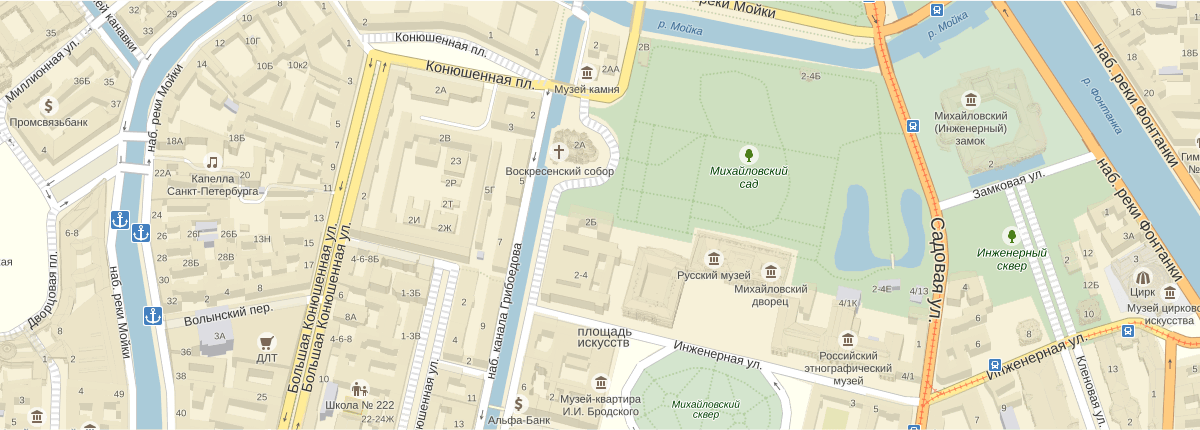
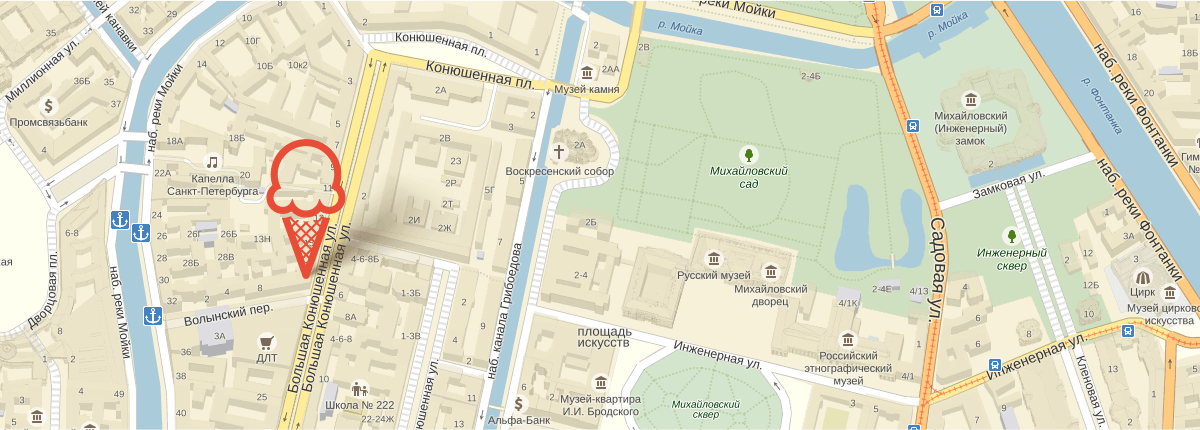
завершена верстка блоко преимуществ и карты

diff --git a/css/style.css b/css/style.css
@@ -295,7 +295,14 @@ input[type="radio"].visually-hidden {
 }
 
 .miscellanea-item {
-  background-color: rgba(255, 255, 255, 0.8);
+  background-color: transparent;
+}
+
+.miscellanea-item-left h3 {
+  display: inline-block;
+  margin: 0;
+  padding: 0;
+  width: 300px;
 }
 
 .miscellanea-item-left a {
@@ -304,17 +311,20 @@ input[type="radio"].visually-hidden {
   font-weight: 700;
   text-align: left;
   color: rgb(50, 50, 50);
-  background-color: rgba(255, 255, 255, 0.8);
+  background-color: transparent;
   border-bottom: 2px solid #353535;
 }
 
 .miscellanea-item-left p {
+  margin: 0; 
+  margin-bottom: 4px; 
+  padding: 0;
   font-size: 16px;
   line-height: 22px;
   font-weight: 500;
   text-align: left;
   color: rgb(50, 50, 50);
-  background-color: rgba(255, 255, 255, 0.8);
+  background-color: transparent;
 }
 
 .miscellanea-item-right p {
@@ -353,8 +363,21 @@ input[type="radio"].visually-hidden {
   border-radius: 40px;
 }
 
-.contacts-address,
+.contacts-address {
+  margin: 0;
+  margin-bottom: 17px;  
+  padding: 0;
+  font-size: 14px;
+  line-height: 20px;
+  font-weight: 400;
+  color: #323232;
+  background-color: rgba(255, 255, 255, 0.98);
+}
+
 .contacts-phones {
+  margin: 0;
+  margin-bottom: 25px;
+  padding: 0;
   font-size: 14px;
   line-height: 20px;
   font-weight: 400;
@@ -363,6 +386,10 @@ input[type="radio"].visually-hidden {
 }
 
 .contacts-address b {
+  display: inline-block;
+  margin: 0;
+  margin-top: 2px;
+  padding: 0;
   font-size: 18px;
   line-height: 24px;
   font-weight: 700;
@@ -371,6 +398,11 @@ input[type="radio"].visually-hidden {
 }
 
 .contacts-phones b {
+  display: inline-block;
+  margin: 0;
+  margin-top: 6px;
+  margin-bottom: 1px;
+  padding: 0;
   font-size: 18px;
   line-height: 22px;
   font-weight: 700;
@@ -387,7 +419,8 @@ input[type="radio"].visually-hidden {
 }
 
 .contacts-button {
-  padding: 13px 22px;
+  margin: 0;  
+  padding: 10px 27px;
   font-size: 18px;
   line-height: 24px;
   border-radius: 40px;
@@ -677,8 +710,6 @@ body {
   padding-top: 272px;
   text-align: center;
   color: #ffffff;
-  /*удалить*/
-  outline: 10px solid rgba(255, 0, 0, 0.1);
 }
 
 .slider-list {
@@ -706,6 +737,8 @@ body {
   left: 27px;
   z-index: 20;
   font-size: 0;
+  /*удалить*/
+  outline: 10px solid rgba(255, 0, 0, 1);    
 }
 
 .slider-controls label {
@@ -950,12 +983,8 @@ body {
 
 .features {
   margin: 0;
-  margin-bottom: 31px;
+  margin-bottom: 32px;
   padding: 0 27px;
-  /*временно*/
-  /*min-height: 306px;*/
-  background: transparent;
-  outline: 10px solid rgba(255, 0, 0, 1);
 }
 
 .features-wrapper {
@@ -965,9 +994,6 @@ body {
   padding: 25px 20px;
   background: url("../img/waffer.png") repeat #efe2ca;
   border-radius: 15px;
-/*  padding-bottom: 23px;*/
-  /* --- временно для сетки --- */
-  background-color1: transparent;
 }
 
 .features-wrapper p {
@@ -991,9 +1017,58 @@ body {
 }
 
 .features-item {
+  position: relative;
   margin: 0;
   padding: 14px 5px 7px 56px;
   width: 540px;
+}
+
+.features-item-first::before {
+  content: "";
+  position: absolute;
+  top: 0;
+  left: 0;
+  width: 204px;
+  height: 204px;
+  background-color: transparent;
+  background-image: url("../img/ice-cream.svg");
+  background-repeat: no-repeat;
+}
+
+.features-item-second::before {
+  content: "";
+  position: absolute;
+  top: 0;
+  left: 0;
+  width: 204px;
+  height: 204px;
+  background-color: transparent;
+  background-image: url("../img/eco.svg");
+  background-repeat: no-repeat;
+}
+
+.features-item-third::before {
+  content: "";
+  position: absolute;
+  top: 0;
+  left: 0;
+  width: 204px;
+  height: 204px;
+  background-color: transparent;
+  background-image: url("../img/cow.svg");
+  background-repeat: no-repeat;
+}
+
+.features-item-forth::before {
+  content: "";
+  position: absolute;
+  top: 0;
+  left: 0;
+  width: 204px;
+  height: 204px;
+  background-color: transparent;
+  background-image: url("../img/thermometer.svg");
+  background-repeat: no-repeat;
 }
 
 .miscellanea {
@@ -1002,8 +1077,6 @@ body {
   padding: 0 27px;
   /*временно*/
   min-height: 220px;
-  background: transparent;
-  outline: 10px solid rgba(255, 0, 0, 1);
 }
 
 .miscellanea-list {
@@ -1012,6 +1085,7 @@ body {
   justify-content: space-between;
   margin: 0;
   padding: 0;
+  min-height: 220px;  
   /* --- временно для сетки --- */
   background: transparent;
 }
@@ -1020,18 +1094,30 @@ body {
   margin: 0;
   padding: 0;
   width: 560px;
-  height: 220px;
+  min-height: 220px;
   border-radius: 15px;
-  /*временно*/
-  /*background: transparent;*/
-  /*outline: 10px solid rgba(255, 0, 0, 0.1);*/
 }
 
 .miscellanea-item-left {
+  display: flex;
+  flex-direction: column-reverse;
+  justify-content: flex-end;
+  margin: 0;
+  padding: 23px 19px;
+  min-height: 220px;
   background-color: #ffffff;
   background-image: url("../img/news-1.jpg");
-  background-position: right center;
+  background-position: 116% 20%;
   background-repeat: no-repeat;
+}
+.miscellanea-item-right {
+  margin: 0;
+  padding: 0;
+  min-height: 220px;
+  background-color: #ffffff;
+  /*временно*/
+  background-color: transparent;
+  outline: 10px solid rgba(255, 0, 0, 1);
 }
 
 .contacts {
@@ -1039,9 +1125,6 @@ body {
   padding: 0;
   width: 1200px;
   height: 430px;
-  /*временно*/
-  background: transparent;
-  outline: 10px solid rgba(255, 0, 0, 1);
 }
 
 .contacts-wrapper {
@@ -1050,8 +1133,6 @@ body {
   flex-direction: row;
   margin: 0;
   padding: 0;
-  /* --- временно для сетки --- */
-  background: transparent;
 }
 
 .contacts-map {
@@ -1061,15 +1142,15 @@ body {
   height: 430px;
 }
 
-.contacts-wrapper .container {
+.contacts-info {
   position: absolute;
   bottom: 62px;
   right: 27px;
   margin: 0;
-  padding: 0;
+  padding: 33px 25px 0px 25px;
   width: 302px;
-  min-height: 305px;
-  background-color: rgba(255, 255, 255, 0.98);
+  min-height: 310px;
+  background-color: rgba(255, 255, 255, 0.98);  
   border-radius: 15px;
 }
 

diff --git a/grid1.html b/grid1.html
@@ -65,8 +65,8 @@
               </p>
               <ul class="features-list">
                 <li class="features-item features-item-first">Все наше мороженое изготавливается на собственном производстве, с использованием современного оборудования и проверенных временем технологий.</li>
-                <li class="features-item features-item-third">Закупка ингредиентов  производится только у проверенных фермерских хозяйств и компаний, с которыми нас связывает долговременное сотрудничество.</li>
-                <li class="features-item features-item-second">Для приготовления мороженого используются настоящие сливки и молоко высочайшего качества. Все дополнительные ингредиенты и добавки произведены из натурального, экологически чистого сырья.</li>
+                <li class="features-item features-item-second">Закупка ингредиентов  производится только у проверенных фермерских хозяйств и компаний, с которыми нас связывает долговременное сотрудничество.</li>
+                <li class="features-item features-item-third">Для приготовления мороженого используются настоящие сливки и молоко высочайшего качества. Все дополнительные ингредиенты и добавки произведены из натурального, экологически чистого сырья.</li>
                 <li class="features-item features-item-forth">Доставка нашего мороженого до заказчиков осуществляется в специальном термопаке, который не дает мороженому растаять в пути и позволяет сохранить превосходный вкус.</li>
               </ul>
             </div>
@@ -97,13 +97,13 @@
             <h2 class="visually-hidden">Контактная информация</h2>
             <div class="contacts-wrapper">
               <p class="contacts-map">
-                <img src="img/map1.png" width="1200" height="430" alt="Карта с местом расположения магазина «Глейси»"/>
+                <img src="img/map.png" width="1200" height="430" alt="Карта с местом расположения магазина «Глейси»"/>
               </p>
-              <div class="container">
+              <div class="contacts-info">
                 <p class="contacts-address">
                   Адрес главного офиса
                   <br/>
-                  и офлайн-магазина:
+                  и офлайн - магазина:
                   <br/>
                   <b>
                     ул. Большая Конюшенная
